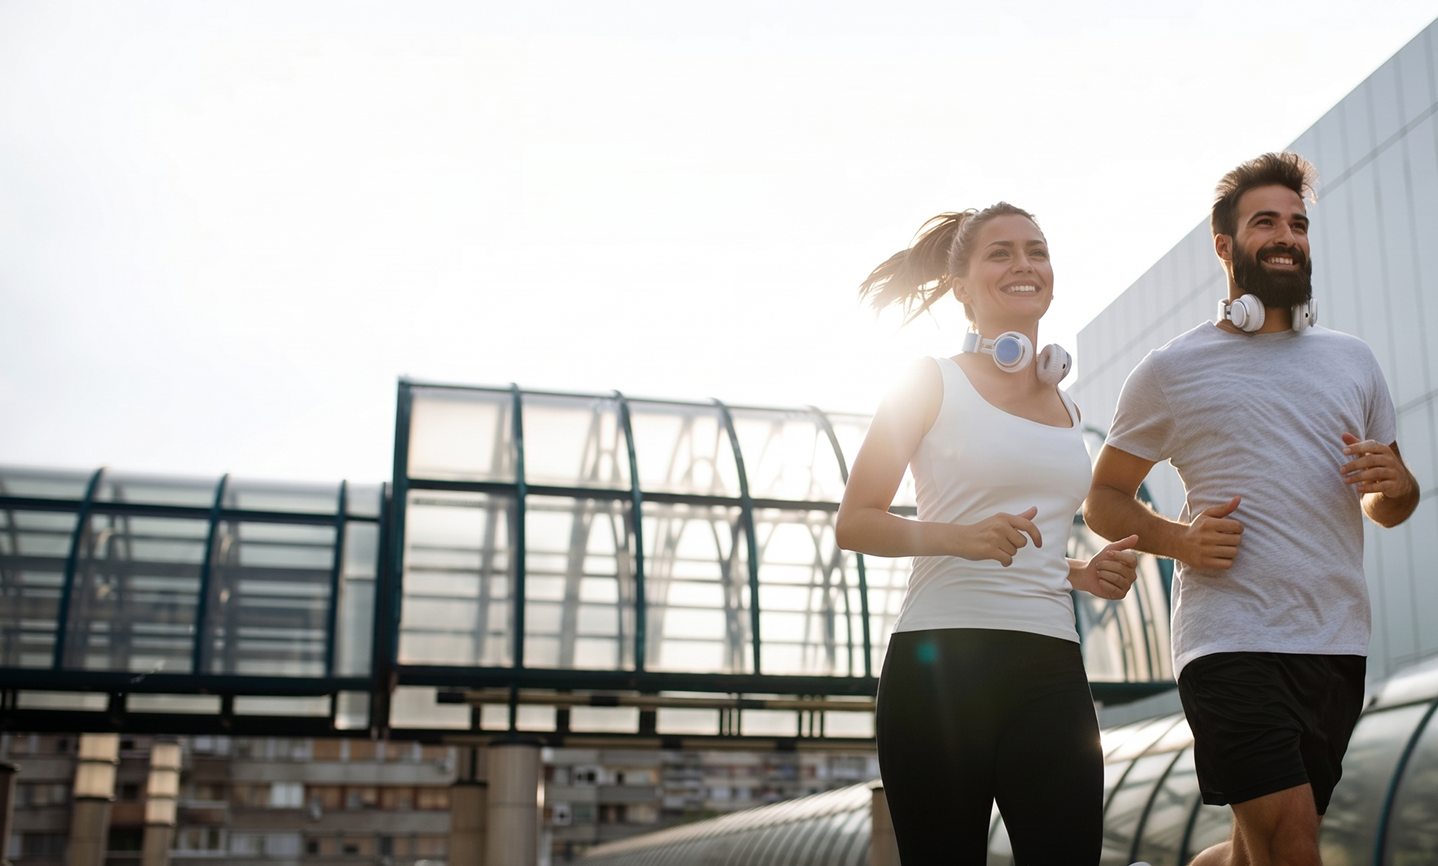
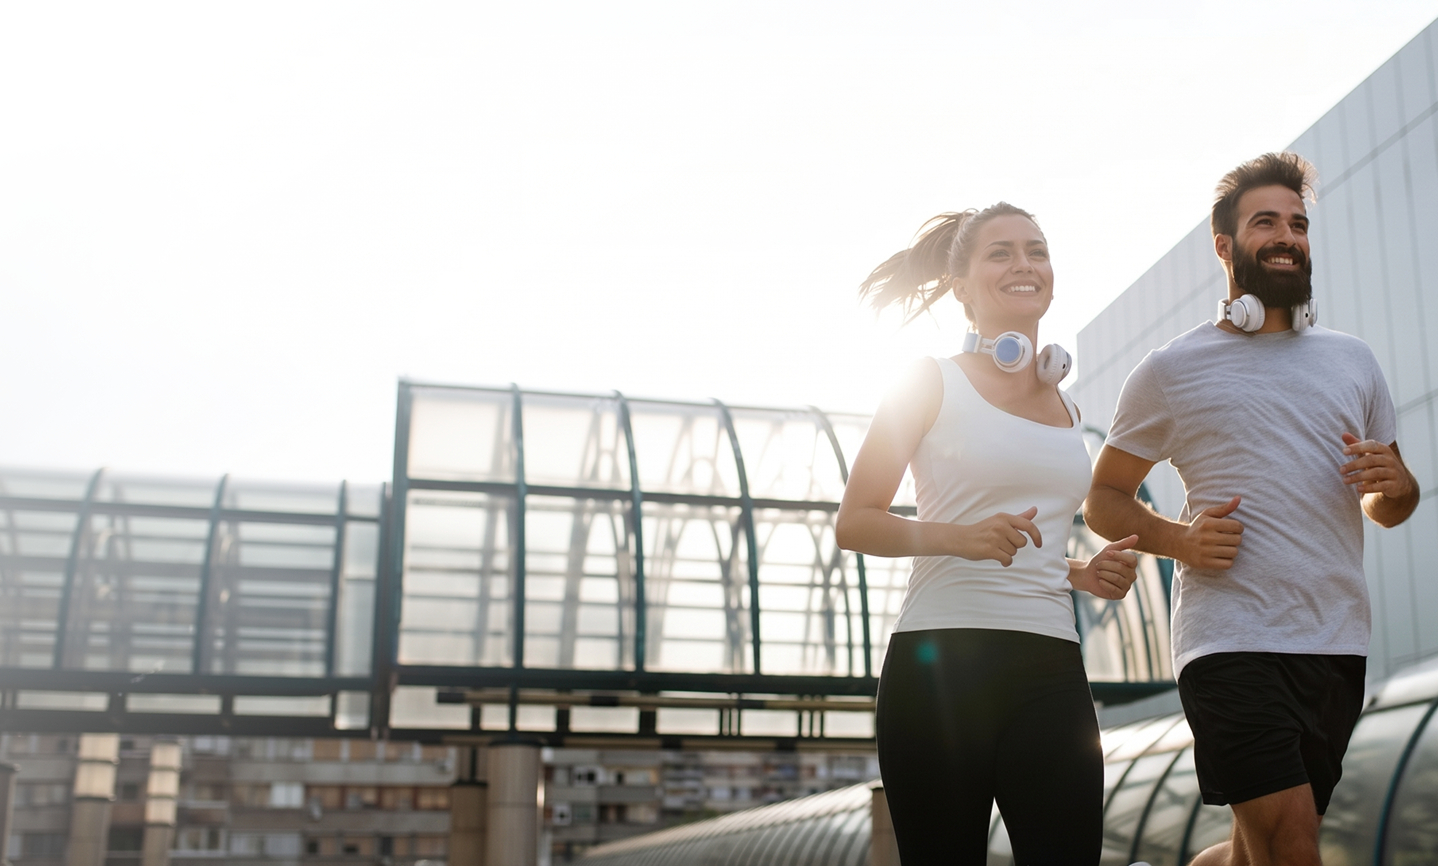
Menambah cart & merapikan yang belum rapi

Changed region(s): [[0.0, 0.4365, 0.5202, 1.0], [0.612, 0.2182, 0.7344, 0.343], [0.4896, 0.4677, 0.5202, 0.4988]]

diff --git a/components/layout/Navbar.tsx b/components/layout/Navbar.tsx
@@ -20,7 +20,7 @@ export default function Navbar() {
                     <a href="./"><img src="./logo.svg?v=2" className="md:w-[193px]" alt="" /></a>
                 </div>
 
-                <div className="hidden md:flex items-center gap-10 lg:gap-18">
+                <div className="hidden md:flex items-center gap-10 lg:gap-25">
                     {menuItems.map((item, index) => (
                         <a
                             key={index}
@@ -29,9 +29,14 @@ export default function Navbar() {
                             {item.name}
                         </a>
                     ))}
-                    <Button className='flex flex-col w-full items-center'>
-                        <a className='px-2' href="https://login.pnl-intl.com/Login_m.aspx">Login</a>
-                    </Button>
+                    <div className='flex items-center gap-5'>
+                        <Button className='flex flex-col w-full items-center'>
+                            <a className='px-2' href="https://login.pnl-intl.com/Login_m.aspx">Login</a>
+                        </Button>
+                        <a className='w-7 h-7' href="https://twmember.bouleglobal.com/PnL/PnLMarketplace">
+                            <img className='w-full h-full' src="./cart.svg" alt="" />
+                        </a>
+                    </div>
                 </div>
 
                 <button onClick={() => setIsOpen(!isOpen)} className='p-2 md:hidden text-brand-secondary focus: outline-none' aria-label="Toggle Menu">
@@ -50,6 +55,9 @@ export default function Navbar() {
                         </button>
                     </div>
                     <div className="flex flex-col items-center justify-center flex-grow gap-8">
+                        <a className='w-7 h-7' href="https://twmember.bouleglobal.com/PnL/PnLMarketplace">
+                            <img className='w-full h-full' src="./cart.svg" alt="" />
+                        </a>
                         {menuItems.map((item, index) => (
                             <a
                                 key={index}

diff --git a/app/page.tsx b/app/page.tsx
@@ -8,19 +8,19 @@ import Button from '@/components/ui/Button';
 const faqData = [
   {
     question: "What makes BPM products different from other anti-aging brands?",
-    answer: "The expert team consists of two members: Dr. Ricardo.G.Correa (Principal Scientific Advisor) and Dr. Itay Shafat (Principal Technical Advisor), who work together to lay a solid scientific foundation for product development."
+    answer: "P&L International is a modern retail platform offering BPM's ultimate anti-aging products, 38Fule's women's wellness items, and exclusive stem cell medical tourism packages for global clients."
   },
   {
     question: "Where are BPM products manufactured and tested?",
-    answer: "The expert team consists of two members: Dr. Ricardo.G.Correa (Principal Scientific Advisor) and Dr. Itay Shafat (Principal Technical Advisor), who work together to lay a solid scientific foundation for product development."
+    answer: "Founded by Malaysian entrepreneur Dr. M. Alvin Hiew, our International CEO brings over thirty-five years of direct selling experience, collaborating closely with Chairman Mr. Yuan Xiaofeng."
   },
   {
     question: "Are your health supplements safe for daily consumption?",
-    answer: "The expert team consists of two members: Dr. Ricardo.G.Correa (Principal Scientific Advisor) and Dr. Itay Shafat (Principal Technical Advisor), who work together to lay a solid scientific foundation for product development."
+    answer: "Purchasing our premium packages unlocks world-class health benefits and grants immediate access to our massive hundred-billion global business platform, empowering you to build a lifelong career."
   },
   {
     question: "Who can truly benefit from P&L's advanced nutritional solutions?",
-    answer: "The expert team consists of two members: Dr. Ricardo.G.Correa (Principal Scientific Advisor) and Dr. Itay Shafat (Principal Technical Advisor), who work together to lay a solid scientific foundation for product development."
+    answer: "Absolutely! Joining us instantly connects you to an inclusive global community passionate about comprehensive wellness, lifestyle elevation, and achieving lasting financial freedom through our rewarding network."
   }
 ];
 

diff --git a/components/layout/Footer.tsx b/components/layout/Footer.tsx
@@ -7,22 +7,22 @@ export default function Footer() {
                 <div className="flex flex-col md:flex-row md:justify-between gap-[193px] md:gap-[0px]">
                     <div className="flex flex-col gap-10">
                         <div>
-                            <a href="#" className="text-h1 md:text-[42px] font-medium text-brand-white">
+                            <a href="/about" className="text-h1 md:text-[42px] font-medium text-brand-white">
                                 About
                             </a>
                         </div>
                         <div>
-                            <a href="#" className="text-h1 md:text-[42px] font-medium text-brand-white">
+                            <a href="/opportunity" className="text-h1 md:text-[42px] font-medium text-brand-white">
                                 Opportunity
                             </a>
                         </div>
                         <div>
-                            <a href="#" className="text-h1 md:text-[42px] font-medium text-brand-white">
+                            <a href="/services" className="text-h1 md:text-[42px] font-medium text-brand-white">
                                 Services
                             </a>
                         </div>
                         <div>
-                            <a href="#" className="text-h1 md:text-[42px] font-medium text-brand-white">
+                            <a href="/contact" className="text-h1 md:text-[42px] font-medium text-brand-white">
                                 Contact
                             </a>
                         </div>

diff --git a/app/services/page.tsx b/app/services/page.tsx
@@ -54,7 +54,7 @@ export default function Services() {
             <Container>
                 <div className="flex flex-col my-15 gap-6 lg:flex-row lg:items-center">
                     <h1 className="text-h1 w-60 lg:w-240"><span className='text-brand-grey'>Exclusive</span> Products <br /> <span className='text-brand-grey'>&</span> Services</h1>
-                    <p className="text-p font-medium w-90 lg:w-90">Your gateway to the world’s most advanced cellular nutrition, health innovations, and elite regenerative medicine.</p>
+                    <p className="text-p font-medium lg:w-90">Your gateway to the world’s most advanced cellular nutrition, health innovations, and elite regenerative medicine.</p>
                 </div>
             </Container>
             <div className="border-b-1 border-brand-grey"></div>
@@ -74,7 +74,7 @@ export default function Services() {
                                     <h3 className="text-h3 mb-5 font-semibold">{bpmCards[bpmSlide].price}</h3>
                                     <div>
                                         <p className="text-p font-semibold mb-2">{bpmCards[bpmSlide].name}</p>
-                                        <p className="text-p font-medium text-brand-grey w-80">{bpmCards[bpmSlide].desc}</p>
+                                        <p className="text-p font-medium text-brand-grey w-">{bpmCards[bpmSlide].desc}</p>
                                     </div>
                                 </div>
                             </div>
@@ -184,7 +184,7 @@ export default function Services() {
             </Container>
             <div className="flex items-end h-[663px] my-30 bg-[url('/services/experience.png')] bg-center bg-cover md:h-[871px] md:my-50">
                 <div className="flex flex-col relative top-6 backdrop-blur-sm py-10 bg-[linear-gradient(180deg,rgba(153,153,153,0)-10.12%,#FFF_62.95%)] md:w-full md:py-20">
-                    <div className="flex flex-col px-[18px] md:px-[3vw] items-center gap-10">
+                    <div className="flex flex-col md:px-[3vw] items-center gap-10">
                         <h1 className="text-h1 text-center lg:w-[80vw]">Experience the Ultimate Health & Wealth</h1>
                         <p className="text-p text-center w-90 md:w-200">Unlock world-class health and join P&L's 100-Billion Global Business Platform with our premium packages. Start building your lifelong career today.</p>
                         <div className="flex gap-4">